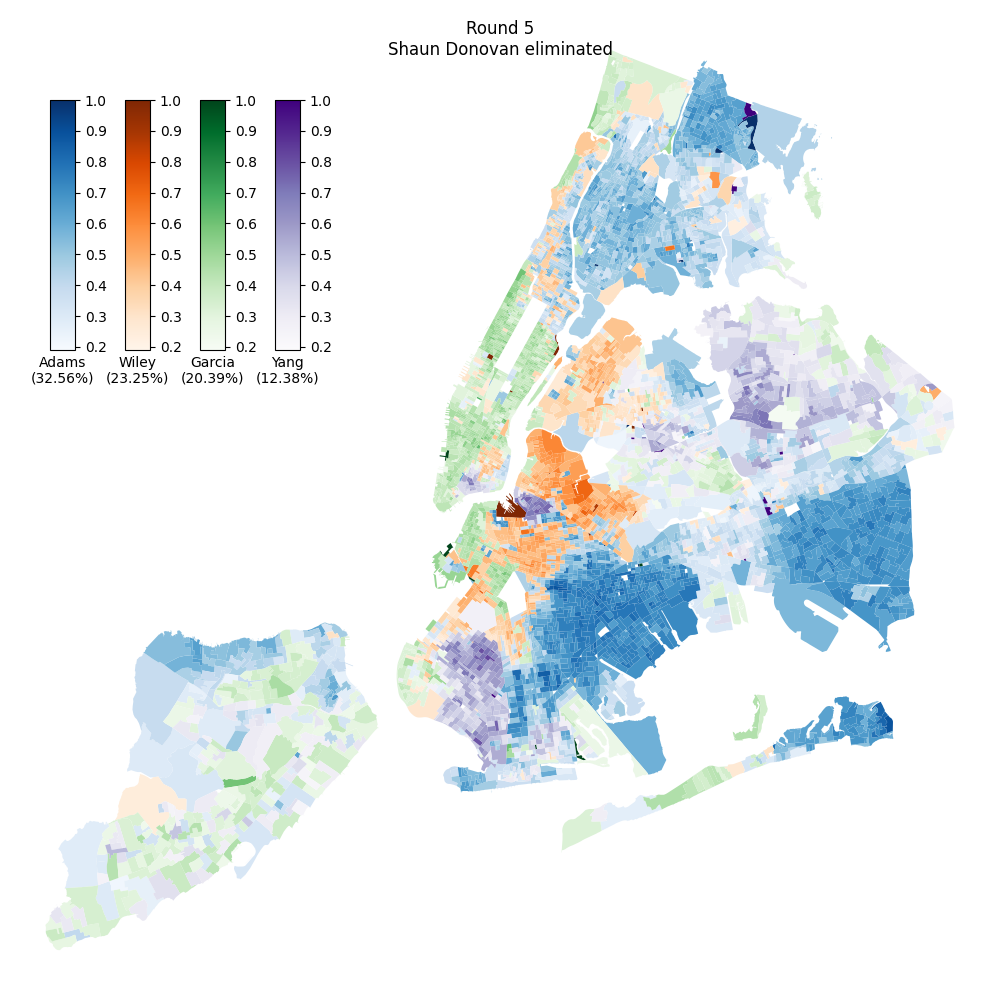
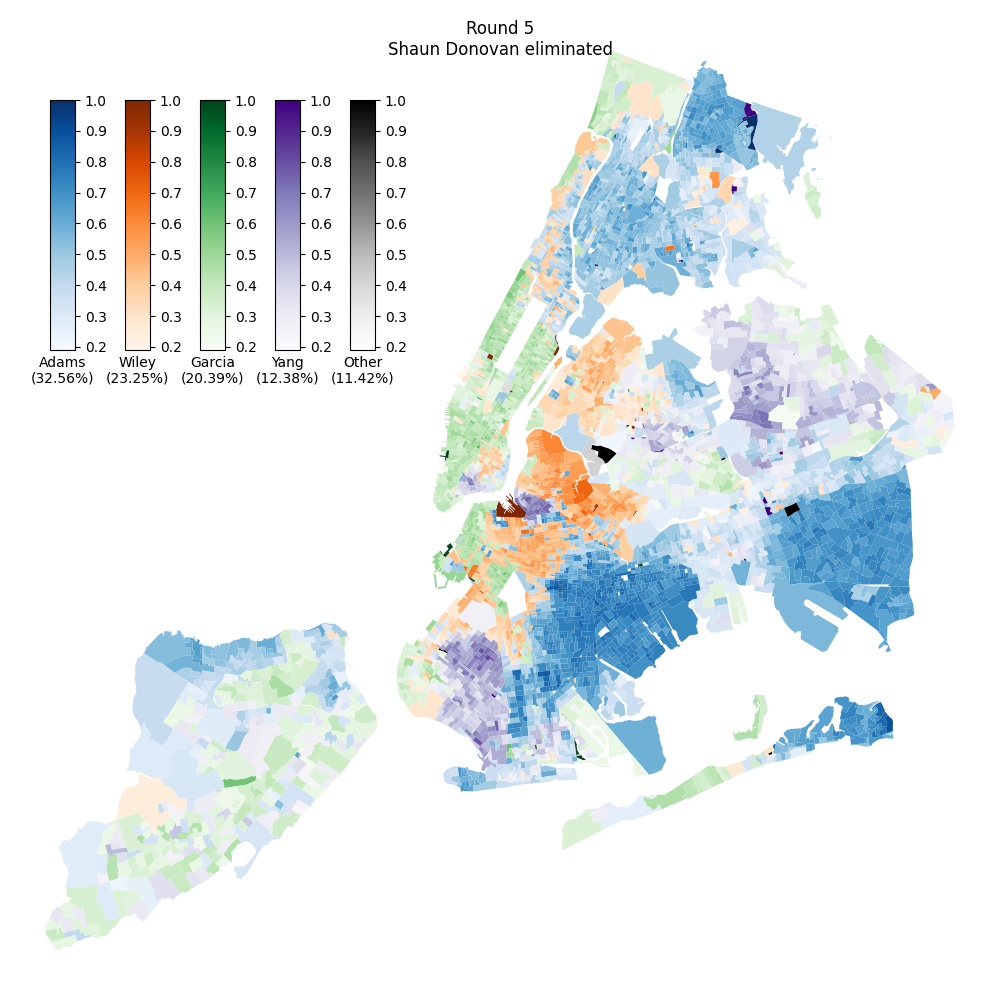
Fix minor candidates not showing correctly

Changed region(s): [[0.341, 0.093, 0.403, 0.403], [0.589, 0.434, 0.62, 0.496], [0.775, 0.496, 0.806, 0.527]]

diff --git a/nyc_ed_rcv.py b/nyc_ed_rcv.py
@@ -65,7 +65,7 @@ for round_number in range(number_rounds):
     all_eds[list(eliminated)] = 0
     previous_eliminiated.update({k: True for k in eliminated})
 
-    winners = all_eds.idxmax(axis=1)
+    winners = all_eds.idxmax(axis=1).apply(lambda x: 'Other' if x not in top_4 else x)
     margins = all_eds.max(axis=1)/all_eds.sum(axis=1)
     round_map = nyc_ed.join([winners.to_frame(name='winning_party'), margins.to_frame(name='margin')]).dropna()
 
@@ -74,11 +74,14 @@ for round_number in range(number_rounds):
     ax.axis("off")
     fig.suptitle(f'Round {round_number+1}\n{", ".join(eliminated)} eliminated')
     total_round_votes = all_eds.sum().sum()
-    for n, party in enumerate(top_4 + ('Others',)):
-        if len(round_map[round_map.winning_party == party])==0:
+    for n, party in enumerate(top_4 + ('Other',)):
+        if party == 'Other':
+            party_votes = all_eds[list(set(round_votes_gained)-set(previous_eliminiated)-set(top_4))].sum().sum()
+        else: 
+            party_votes = all_eds[party].sum().sum()
+        if party_votes==0:
             continue
         cax = fig.add_axes((0.05+n*0.0750, 0.65, 0.025, 0.25))
-        party_votes = all_eds[party].sum().sum()
         party_label = party.split(' ')[-1] if party in top_4 else 'Other'
         party_plurality = party_votes/total_round_votes*100
         cax.set_xlabel(f'{party_label}\n({party_plurality:.2f}%)')
